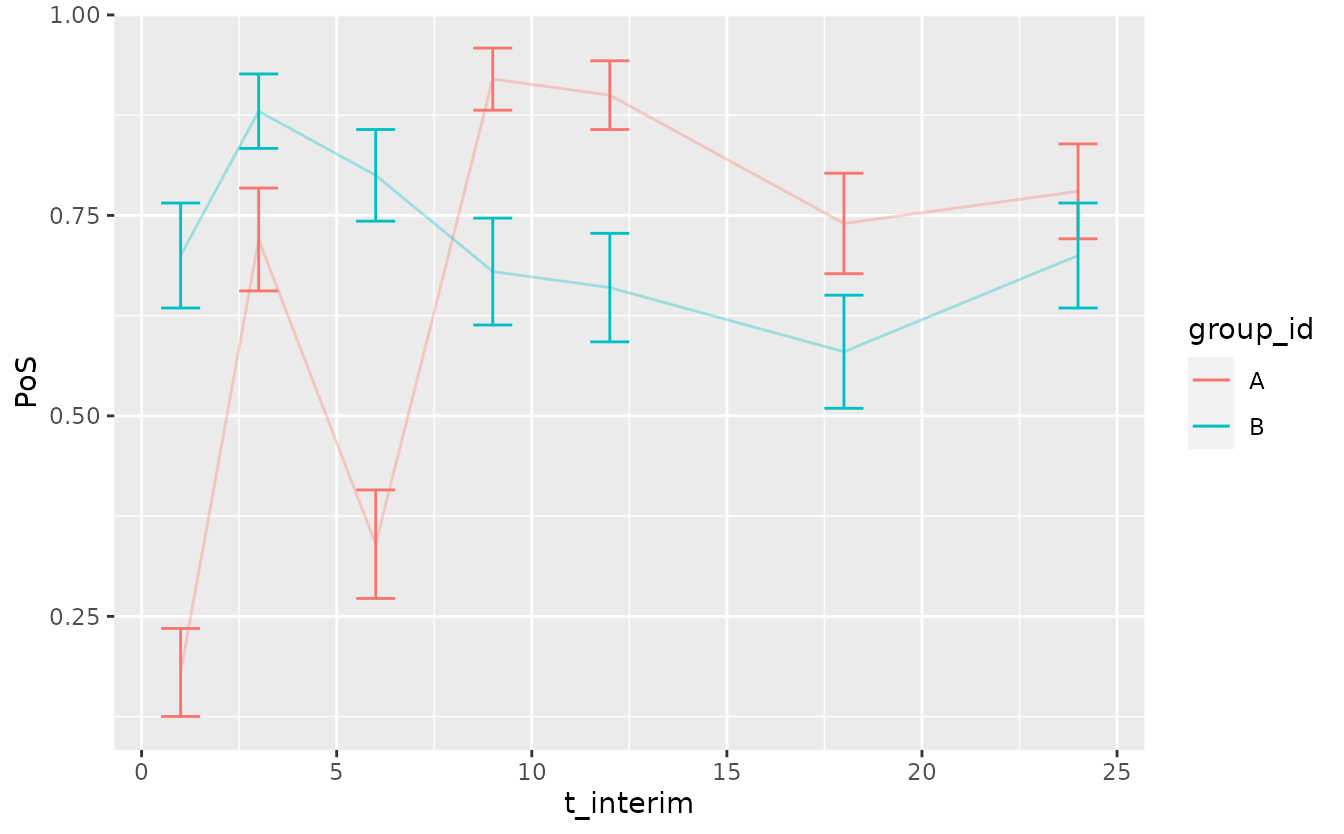
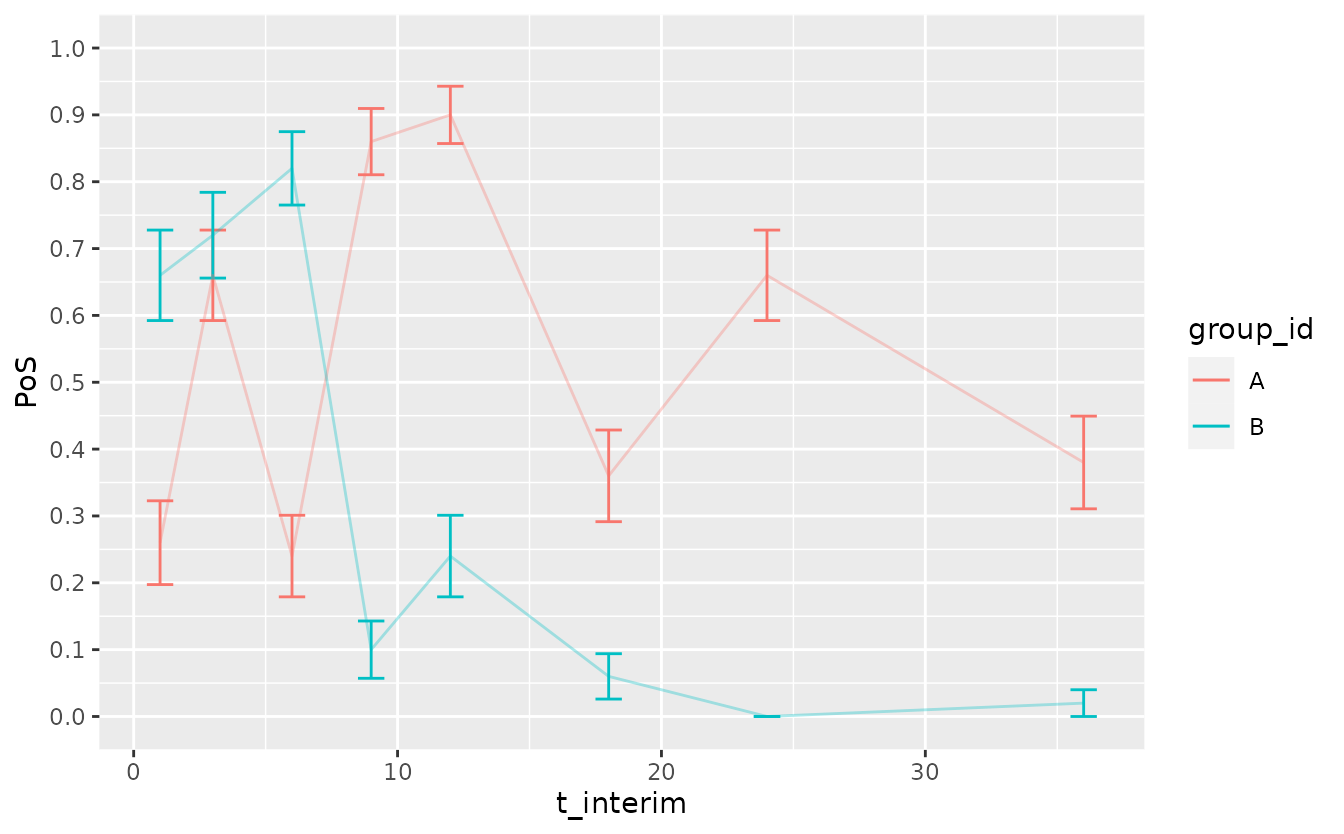
Deploying to gh-pages from @ Boehringer-Ingelheim/oncomsm@9cbdbb5e7293d37b3f1788ae141c0d199c92bf6d 🚀

diff --git a/articles/web_only/application-to-probability-of-success.html b/articles/web_only/application-to-probability-of-success.html
@@ -273,7 +273,7 @@ to show how the prior shifts.</p>
 <div class="sourceCode" id="cb8"><pre class="downlit sourceCode r">
 <code class="sourceCode R"><span><span class="va">mdl_point</span> <span class="op">&lt;-</span> <span class="fu"><a href="../../reference/srp_model.html">create_srp_model</a></span><span class="op">(</span></span>
 <span>  group_id <span class="op">=</span> <span class="fu"><a href="https://rdrr.io/r/base/c.html" class="external-link">c</a></span><span class="op">(</span><span class="st">"A"</span>, <span class="st">"B"</span><span class="op">)</span>,</span>
-<span>  logodds_mean <span class="op">=</span> <span class="fu"><a href="../../reference/logodds.html">logodds</a></span><span class="op">(</span><span class="fu"><a href="https://rdrr.io/r/base/c.html" class="external-link">c</a></span><span class="op">(</span><span class="fl">0.4</span>, <span class="fl">0.4</span><span class="op">)</span><span class="op">)</span>, <span class="co"># chose conflicting ORR parameters</span></span>
+<span>  logodds_mean <span class="op">=</span> <span class="fu"><a href="../../reference/logodds.html">logodds</a></span><span class="op">(</span><span class="fu"><a href="https://rdrr.io/r/base/c.html" class="external-link">c</a></span><span class="op">(</span><span class="fl">0.4</span>, <span class="fl">0.3</span><span class="op">)</span><span class="op">)</span>, <span class="co"># chose conflicting ORR parameters</span></span>
 <span>  logodds_sd <span class="op">=</span> <span class="fu"><a href="https://rdrr.io/r/base/rep.html" class="external-link">rep</a></span><span class="op">(</span><span class="fl">0.01</span>, <span class="fl">2L</span><span class="op">)</span>, <span class="co"># almost constant prior = fixed parameter</span></span>
 <span>  median_time_to_next_event <span class="op">=</span> <span class="fu"><a href="https://rdrr.io/r/base/matrix.html" class="external-link">matrix</a></span><span class="op">(</span><span class="fu"><a href="https://rdrr.io/r/base/c.html" class="external-link">c</a></span><span class="op">(</span></span>
 <span>     <span class="fl">4</span>, <span class="fl">8</span>, <span class="fl">24</span>,</span>
@@ -289,26 +289,26 @@ to show how the prior shifts.</p>
 <span>    recruitment_rate <span class="op">=</span> <span class="fu"><a href="https://rdrr.io/r/base/c.html" class="external-link">c</a></span><span class="op">(</span><span class="fl">40</span> <span class="op">/</span> <span class="fl">24</span>, <span class="fl">40</span> <span class="op">/</span> <span class="fl">24</span><span class="op">)</span> <span class="co"># recruit in 24 months</span></span>
 <span>  <span class="op">)</span></span>
 <span><span class="fu"><a href="https://rdrr.io/r/base/print.html" class="external-link">print</a></span><span class="op">(</span><span class="va">tbl_data</span><span class="op">)</span></span>
-<span><span class="co">#&gt; <span style="color: #949494;"># A tibble: 1,780 × 4</span></span></span>
-<span><span class="co">#&gt;    subject_id group_id     t state      </span></span>
-<span><span class="co">#&gt;    <span style="color: #949494; font-style: italic;">&lt;chr&gt;</span>      <span style="color: #949494; font-style: italic;">&lt;chr&gt;</span>    <span style="color: #949494; font-style: italic;">&lt;dbl&gt;</span> <span style="color: #949494; font-style: italic;">&lt;chr&gt;</span>      </span></span>
-<span><span class="co">#&gt; <span style="color: #BCBCBC;"> 1</span> 1          A         1.34 stable     </span></span>
-<span><span class="co">#&gt; <span style="color: #BCBCBC;"> 2</span> 1          A         2.54 response   </span></span>
-<span><span class="co">#&gt; <span style="color: #BCBCBC;"> 3</span> 1          A         3.98 response   </span></span>
-<span><span class="co">#&gt; <span style="color: #BCBCBC;"> 4</span> 1          A         5.42 response   </span></span>
-<span><span class="co">#&gt; <span style="color: #BCBCBC;"> 5</span> 1          A         6.86 response   </span></span>
-<span><span class="co">#&gt; <span style="color: #BCBCBC;"> 6</span> 1          A         8.30 response   </span></span>
-<span><span class="co">#&gt; <span style="color: #BCBCBC;"> 7</span> 1          A         9.74 response   </span></span>
-<span><span class="co">#&gt; <span style="color: #BCBCBC;"> 8</span> 1          A        10.9  progression</span></span>
-<span><span class="co">#&gt; <span style="color: #BCBCBC;"> 9</span> 10         A         3.54 stable     </span></span>
-<span><span class="co">#&gt; <span style="color: #BCBCBC;">10</span> 10         A         4.89 stable     </span></span>
-<span><span class="co">#&gt; <span style="color: #949494;"># … with 1,770 more rows</span></span></span></code></pre></div>
+<span><span class="co">#&gt; <span style="color: #949494;"># A tibble: 1,514 × 4</span></span></span>
+<span><span class="co">#&gt;    subject_id group_id      t state      </span></span>
+<span><span class="co">#&gt;    <span style="color: #949494; font-style: italic;">&lt;chr&gt;</span>      <span style="color: #949494; font-style: italic;">&lt;chr&gt;</span>     <span style="color: #949494; font-style: italic;">&lt;dbl&gt;</span> <span style="color: #949494; font-style: italic;">&lt;chr&gt;</span>      </span></span>
+<span><span class="co">#&gt; <span style="color: #BCBCBC;"> 1</span> 1          A        0.061<span style="text-decoration: underline;">1</span> stable     </span></span>
+<span><span class="co">#&gt; <span style="color: #BCBCBC;"> 2</span> 1          A        1.26   response   </span></span>
+<span><span class="co">#&gt; <span style="color: #BCBCBC;"> 3</span> 1          A        2.70   response   </span></span>
+<span><span class="co">#&gt; <span style="color: #BCBCBC;"> 4</span> 1          A        4.14   response   </span></span>
+<span><span class="co">#&gt; <span style="color: #BCBCBC;"> 5</span> 1          A        5.58   response   </span></span>
+<span><span class="co">#&gt; <span style="color: #BCBCBC;"> 6</span> 1          A        7.02   response   </span></span>
+<span><span class="co">#&gt; <span style="color: #BCBCBC;"> 7</span> 1          A        8.46   response   </span></span>
+<span><span class="co">#&gt; <span style="color: #BCBCBC;"> 8</span> 1          A        9.66   progression</span></span>
+<span><span class="co">#&gt; <span style="color: #BCBCBC;"> 9</span> 10         A        3.63   stable     </span></span>
+<span><span class="co">#&gt; <span style="color: #BCBCBC;">10</span> 10         A        4.98   stable     </span></span>
+<span><span class="co">#&gt; <span style="color: #949494;"># … with 1,504 more rows</span></span></span></code></pre></div>
 <p>Next, the snapshot at a sequence of time points of this trial data
 can be created. Interim analyses every 3 months starting at 9 months
 after first-patient-in up to 24 months are considered.</p>
 <div class="sourceCode" id="cb9"><pre class="downlit sourceCode r">
 <code class="sourceCode R"><span><span class="va">tbl_data_interims</span> <span class="op">&lt;-</span> <span class="fu"><a href="https://tibble.tidyverse.org/reference/tibble.html" class="external-link">tibble</a></span><span class="op">(</span></span>
-<span>    t_interim <span class="op">=</span> <span class="fu"><a href="https://rdrr.io/r/base/c.html" class="external-link">c</a></span><span class="op">(</span><span class="fl">1</span>, <span class="fl">3</span>, <span class="fl">6</span>, <span class="fl">9</span>, <span class="fl">12</span>, <span class="fl">18</span>, <span class="fl">24</span><span class="op">)</span></span>
+<span>    t_interim <span class="op">=</span> <span class="fu"><a href="https://rdrr.io/r/base/c.html" class="external-link">c</a></span><span class="op">(</span><span class="fl">1</span>, <span class="fl">3</span>, <span class="fl">6</span>, <span class="fl">9</span>, <span class="fl">12</span>, <span class="fl">18</span>, <span class="fl">24</span>, <span class="fl">36</span><span class="op">)</span></span>
 <span>  <span class="op">)</span> <span class="op"><a href="https://magrittr.tidyverse.org/reference/pipe.html" class="external-link">%&gt;%</a></span></span>
 <span>  <span class="fu"><a href="https://dplyr.tidyverse.org/reference/mutate.html" class="external-link">mutate</a></span><span class="op">(</span></span>
 <span>    data <span class="op">=</span> <span class="fu">purrr</span><span class="fu">::</span><span class="fu"><a href="https://purrr.tidyverse.org/reference/map.html" class="external-link">map</a></span><span class="op">(</span><span class="va">t_interim</span>, <span class="kw">function</span><span class="op">(</span><span class="va">t_interim</span><span class="op">)</span> <span class="op">{</span></span>
@@ -351,7 +351,8 @@ errorbars corresponding to the standard error of the simulation.</p>
 <span>  <span class="fu"><a href="https://ggplot2.tidyverse.org/reference/aes.html" class="external-link">aes</a></span><span class="op">(</span><span class="va">t_interim</span><span class="op">)</span> <span class="op">+</span></span>
 <span>  <span class="fu"><a href="https://ggplot2.tidyverse.org/reference/geom_linerange.html" class="external-link">geom_errorbar</a></span><span class="op">(</span><span class="fu"><a href="https://ggplot2.tidyverse.org/reference/aes.html" class="external-link">aes</a></span><span class="op">(</span>ymin <span class="op">=</span> <span class="va">PoS</span> <span class="op">-</span> <span class="va">se</span>, ymax <span class="op">=</span> <span class="va">PoS</span> <span class="op">+</span> <span class="va">se</span>, color <span class="op">=</span> <span class="va">group_id</span><span class="op">)</span>,</span>
 <span>                width <span class="op">=</span> <span class="fl">1</span><span class="op">)</span> <span class="op">+</span></span>
-<span>  <span class="fu"><a href="https://ggplot2.tidyverse.org/reference/geom_path.html" class="external-link">geom_line</a></span><span class="op">(</span><span class="fu"><a href="https://ggplot2.tidyverse.org/reference/aes.html" class="external-link">aes</a></span><span class="op">(</span>y <span class="op">=</span> <span class="va">PoS</span>, color <span class="op">=</span> <span class="va">group_id</span><span class="op">)</span>, alpha <span class="op">=</span> <span class="fl">0.33</span><span class="op">)</span></span></code></pre></div>
+<span>  <span class="fu"><a href="https://ggplot2.tidyverse.org/reference/geom_path.html" class="external-link">geom_line</a></span><span class="op">(</span><span class="fu"><a href="https://ggplot2.tidyverse.org/reference/aes.html" class="external-link">aes</a></span><span class="op">(</span>y <span class="op">=</span> <span class="va">PoS</span>, color <span class="op">=</span> <span class="va">group_id</span><span class="op">)</span>, alpha <span class="op">=</span> <span class="fl">0.33</span><span class="op">)</span> <span class="op">+</span></span>
+<span>  <span class="fu"><a href="https://ggplot2.tidyverse.org/reference/scale_continuous.html" class="external-link">scale_y_continuous</a></span><span class="op">(</span>breaks <span class="op">=</span> <span class="fu"><a href="https://rdrr.io/r/base/seq.html" class="external-link">seq</a></span><span class="op">(</span><span class="fl">0</span>, <span class="fl">1</span>, by <span class="op">=</span> <span class="fl">0.1</span><span class="op">)</span>, limits <span class="op">=</span> <span class="fu"><a href="https://rdrr.io/r/base/c.html" class="external-link">c</a></span><span class="op">(</span><span class="fl">0</span>, <span class="fl">1</span><span class="op">)</span><span class="op">)</span></span></code></pre></div>
 <p><img src="application-to-probability-of-success_files/figure-html/unnamed-chunk-6-1.png" width="672" style="display: block; margin: auto;"></p>
 </div>
 <div class="section level2">

diff --git a/articles/multi-state-model-for-early-oncology.html b/articles/multi-state-model-for-early-oncology.html
@@ -103,8 +103,8 @@ simple binary analysis is biased.</p>
 response model to a three-state model for “stable”, “response”, and
 “progression or death”. The respective transition numbers are given in
 the graph below.</p>
-<div id="htmlwidget-1fe133bbc2101204c117" style="width:672px;height:200px;" class="DiagrammeR html-widget"></div>
-<script type="application/json" data-for="htmlwidget-1fe133bbc2101204c117">{"x":{"diagram":"\ngraph LR\n  stable -- 1 --> response\n  response -- 3 --> progression[progression or death]\n  stable -- 2 --> progression[progression or death]\n"},"evals":[],"jsHooks":[]}</script><p>Often, a hazard-based approach is used to model multi-state data.
+<div id="htmlwidget-2f3850045c9b161bb98a" style="width:672px;height:200px;" class="DiagrammeR html-widget"></div>
+<script type="application/json" data-for="htmlwidget-2f3850045c9b161bb98a">{"x":{"diagram":"\ngraph LR\n  stable -- 1 --> response\n  response -- 3 --> progression[progression or death]\n  stable -- 2 --> progression[progression or death]\n"},"evals":[],"jsHooks":[]}</script><p>Often, a hazard-based approach is used to model multi-state data.
 However, a hazard-based approach has several disadvantages:</p>
 <ol style="list-style-type: decimal">
 <li><p>The hazard scale is difficult to interpret since it is a
